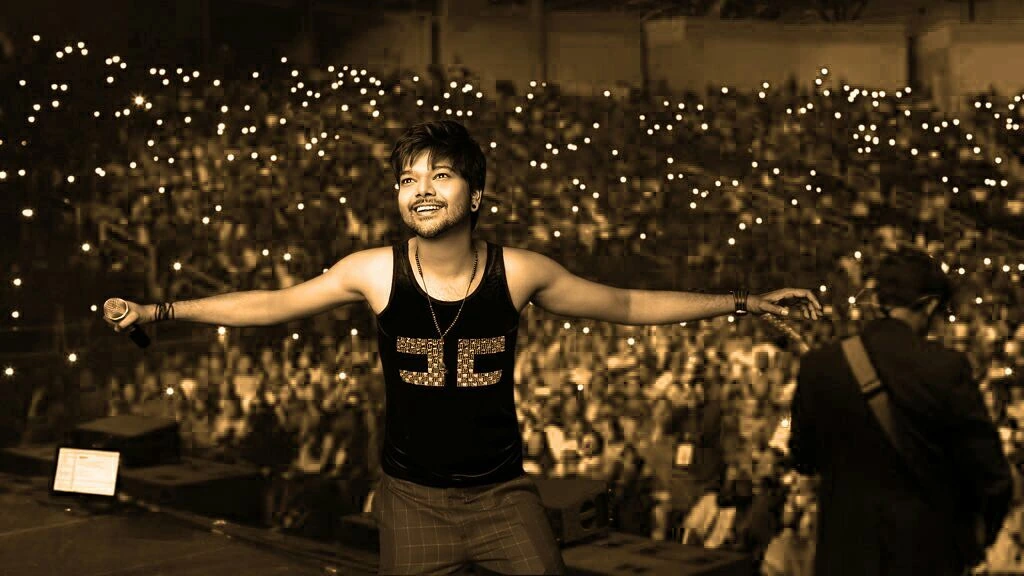
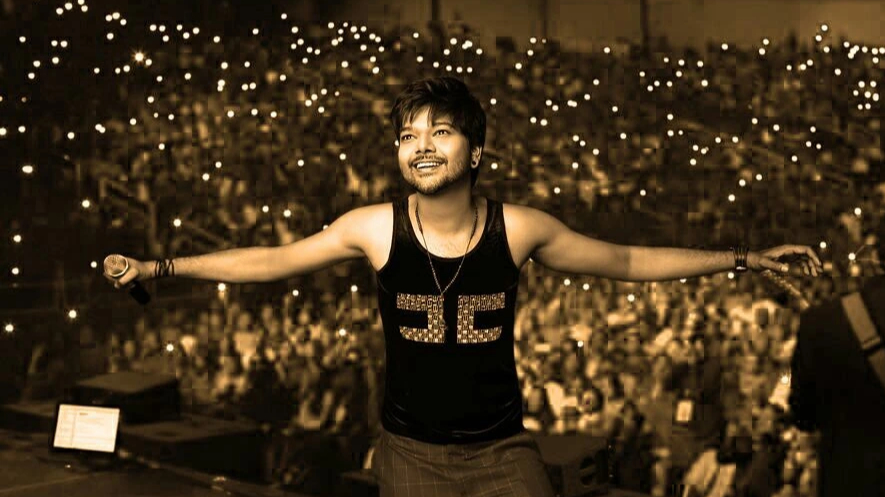
connect: centered 3:4 portrait with magnet drift

diff --git a/components/ConnectSection.tsx b/components/ConnectSection.tsx
@@ -1,4 +1,7 @@
+"use client";
+
 import Image from "next/image";
+import { useRef } from "react";
 
 const HIGHLIGHTS = [
   "Playback Singer",
@@ -15,6 +18,31 @@ const Star = () => (
 );
 
 export default function ConnectSection() {
+  const magnetRef = useRef<HTMLDivElement>(null);
+  const reduceMotion = useRef<boolean | null>(null);
+
+  // Magnet drift : the fixed container never moves (overflow hidden clips),
+  // the overscanned image inside leans toward the cursor and springs back.
+  const onMagnetMove = (e: React.MouseEvent<HTMLDivElement>) => {
+    const layer = magnetRef.current;
+    if (!layer) return;
+    if (reduceMotion.current === null) {
+      reduceMotion.current = window.matchMedia(
+        "(prefers-reduced-motion: reduce)"
+      ).matches;
+    }
+    if (reduceMotion.current) return;
+    const box = e.currentTarget.getBoundingClientRect();
+    const x = (e.clientX - box.left) / box.width - 0.5;
+    const y = (e.clientY - box.top) / box.height - 0.5;
+    // Subtle : a few px of lean is felt without ever looking off-center.
+    const shift = 7;
+    layer.style.transform = `translate3d(${(x * 2 * shift).toFixed(1)}px, ${(y * 2 * shift).toFixed(1)}px, 0)`;
+  };
+  const onMagnetLeave = () => {
+    magnetRef.current?.style.setProperty("transform", "translate3d(0, 0, 0)");
+  };
+
   return (
     <section className="connect wrap" id="connect">
       <div className="connect-left reveal-up">
@@ -34,16 +62,23 @@ export default function ConnectSection() {
         </ul>
       </div>
 
-      <div className="connect-img reveal-up" data-parallax="connect-img">
-        <Image
-          src="/images/posing_on_stage_after_singing_background_crowd_with_flashlight.webp"
-          alt="Samrat Sarkar posing on stage after live performance with crowd — book SKS Music Band for events"
-          fill
-          loading="lazy"
-          quality={100}
-          sizes="(max-width: 900px) 340px, 40vw"
-          className="img-smooth"
-        />
+      <div
+        className="connect-photo reveal-up"
+        data-parallax="connect-img"
+        onMouseMove={onMagnetMove}
+        onMouseLeave={onMagnetLeave}
+      >
+        <div className="connect-magnet" ref={magnetRef}>
+          <Image
+            src="/images/posing_on_stage_after_singing_background_crowd_with_flashlight.webp"
+            alt="Samrat Sarkar posing on stage after live performance with crowd — book SKS Music Band for events"
+            fill
+            loading="lazy"
+            quality={100}
+            sizes="(max-width: 900px) 100vw, 100vw"
+            className="img-smooth"
+          />
+        </div>
       </div>
 
       <div className="connect-right reveal-up">

diff --git a/public/css/connect.css b/public/css/connect.css
@@ -1,8 +1,8 @@
-/* ===== CONNECT ===== */
+/* ===== CONNECT : 3-column layout, 3:4 portrait photo in the middle ===== */
 .connect {
-  padding: 60px 40px 0;
+  padding: 60px 40px;
   display: grid;
-  grid-template-columns: 1fr 1.05fr 1fr;
+  grid-template-columns: 1fr auto 1fr;
   gap: 30px;
   align-items: center;
 }
@@ -31,37 +31,30 @@
   margin-top: 3px;
   color: var(--pink);
 }
-.connect-img {
-  border-radius: 10px 10px 0 0;
-  overflow: hidden;
-  /* Matches the source photo's own ratio on purpose : this image must never be
-     cropped, unlike every other slot on the site. Deliberate exception to the
-     "don't change container ratios" rule, at the client's request. */
-  aspect-ratio: 16 / 9;
+/* Fixed 3 / 4 portrait slot : the container drives the crop, never the source.
+   Centred anchor keeps the performer in frame when the landscape source is
+   cropped to portrait — same opt-out as .footer-bg-img. Served at quality 100
+   with a sizes hint matching the slot, so it keeps full detail. */
+.connect-photo {
   position: relative;
+  width: 320px;
+  max-width: 100%;
+  aspect-ratio: 3 / 4;
+  overflow: hidden;
+  border-radius: 10px;
+  border: 1px solid var(--border-strong);
   will-change: transform;
-  /* Full width stays visible; the left and right edges fade out instead of
-     being cut, so the photo blends into the page. */
-  mask-image: linear-gradient(
-    90deg,
-    transparent 0%,
-    #000 14%,
-    #000 86%,
-    transparent 100%
-  );
-  -webkit-mask-image: linear-gradient(
-    90deg,
-    transparent 0%,
-    #000 14%,
-    #000 86%,
-    transparent 100%
-  );
 }
-.connect-img img {
-  /* No offset needed : the slot matches the photo's ratio, so nothing is
-     cropped and object-position has no effect. No filter either — this client
-     photo is shown raw, see the note in DESIGN.md. */
+.connect-photo img {
   object-position: center;
+}
+/* Magnet layer : overscanned 24px on every side so the ±14px cursor drift
+   never exposes an edge — the fixed container clips it (overflow hidden). */
+.connect-magnet {
+  position: absolute;
+  inset: -24px;
+  will-change: transform;
+  transition: transform 0.18s ease-out;
 }
 .connect-right {
   display: flex;

diff --git a/public/css/responsive.css b/public/css/responsive.css
@@ -95,21 +95,16 @@
     height: 70px;
   }
 
-  /* Connect */
+  /* Connect : stacks with the photo staying in the middle */
   .connect {
     grid-template-columns: 1fr;
     gap: 30px;
-    padding: 50px 30px 0;
+    padding: 50px 30px;
   }
-  .connect-img {
-    /* width is required: with auto margins + max-width and no in-flow content
-       the grid item would otherwise resolve to fit-content (0px) and vanish */
+  .connect-photo {
     width: 100%;
     max-width: 340px;
     margin: 0 auto;
-    /* keeps the uncropped 16 / 9 framing from connect.css */
-    aspect-ratio: 16 / 9;
-    order: -1;
   }
   .connect-left {
     text-align: center;
@@ -402,11 +397,10 @@
 
   /* Connect */
   .connect {
-    padding: 40px 20px 0;
+    padding: 40px 20px;
   }
-  .connect-img {
-    width: 100%;
-    max-width: 280px;
+  .connect-photo {
+    max-width: 300px;
   }
   .connect-left h2 {
     font-size: clamp(22px, 3vw, 28px);
@@ -731,12 +725,11 @@
 
   /* Connect */
   .connect {
-    padding: 36px 16px 0;
+    padding: 36px 16px;
     gap: 24px;
   }
-  .connect-img {
-    width: 100%;
-    max-width: 240px;
+  .connect-photo {
+    max-width: 260px;
   }
   .connect-left h2 {
     font-size: clamp(20px, 4vw, 26px);
